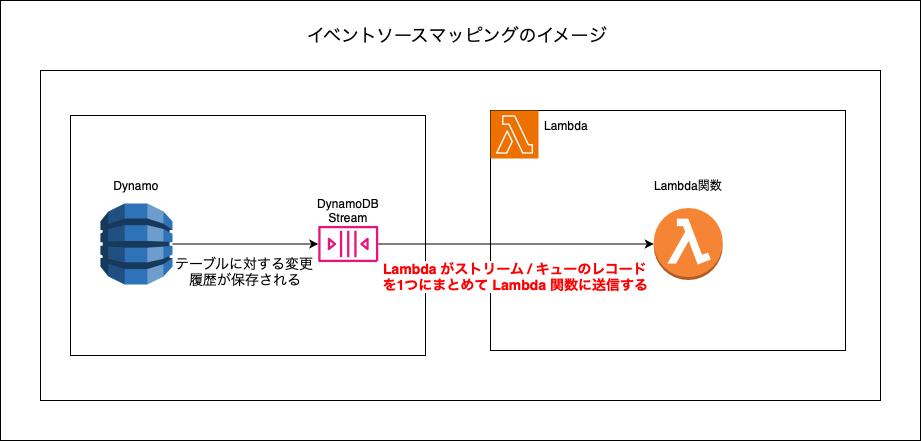
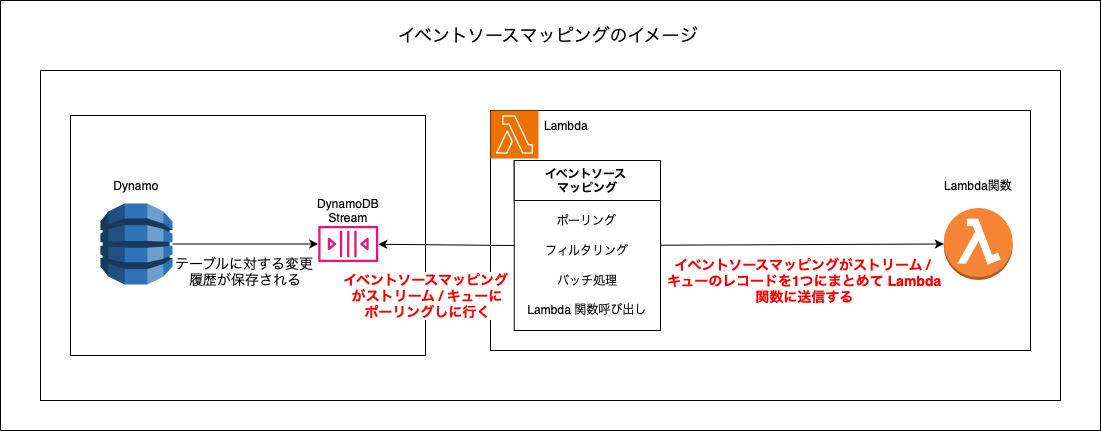
Add note about event source mapping and destinations of Lambda

Changed region(s): [[0.0304, 0.1508, 0.9729, 0.935], [0.3344, 0.0603, 0.6688, 0.1206], [0.3648, 0.7842, 0.3952, 0.8144]]

diff --git a/Lambda_2.md b/Lambda_2.md
@@ -65,7 +65,7 @@ Lambda 関数の呼び出し方として以下の3つの方法がある
 
         - イベントソースマッピングは、Lambda が関数に送信する単一のペイロードにレコードをまとめてバッチ処理する
 
-        - イベントソースマッピングでのバッチ処理のタイミングについて少しはカスタマイズできる (詳しくは[こちら](#バッチ処理のカスタマイズ)を参照)
+        - イベントソースマッピングでのバッチ処理の挙動について少しはカスタマイズできる (詳しくは[こちら](#バッチ処理のカスタマイズ)を参照)
 
 <br>
 
@@ -108,6 +108,11 @@ Lambda 関数の呼び出し方として以下の3つの方法がある
 
 参考サイト
 
+呼び出し方の種類について
+- [[AWS]知っておいたほうがいいLambda関数の呼び出しタイプとリトライ方式まとめ](https://dev.classmethod.jp/articles/lambda-idempotency/)
+
+- [Understanding the Different Ways to Invoke Lambda Functions](https://aws.amazon.com/jp/blogs/architecture/understanding-the-different-ways-to-invoke-lambda-functions/)
+
 同期実行時のエラーハンドリングについて
 - [Lambdaの例外エラーの通知方法を考える](https://blog.nightonly.com/2022/05/28/lambdaの例外エラーの通知方法を考える/)
 - [【Terraformハンズオン】同期呼び出しのLambda関数をデプロイしてみよう](https://envader.plus/article/466#Lambdaにおける同期呼び出しと非同期呼び出し)
@@ -117,48 +122,74 @@ Lambda 関数の呼び出し方として以下の3つの方法がある
 
 ---
 
-### バッチ処理のタイミングのカスタマイズ
+### バッチ処理の挙動のカスタマイズ
 
-- イベントソースマッピングの Lambda 関数の**処理開始のタイミング**は以下の3つの設定によってカスタマイズできる
+- イベントソースマッピングの Lambda 関数の**処理開始の条件**は以下の3つの設定によってカスタマイズできる
 
-- 以下の3つのうちどれか1つでも当てはまれば Lambda 関数が開始される
+<br>
 
 #### 1. バッチウィンドウ (MaximumBatchingWindowInSeconds)
 
-- ストリーム / キュー にレコードが追加されてから Lambda 関数が実行するまでの**待ち時間**
+<img src="./img/Lambda-Event-Source-Mapping-Batching-Window_1.png" />
+
+<br>
+
+- ストリーム / キュー にレコードが追加されているのを見つけてから Lambda 関数を呼び出すまでの**待ち時間**
 
     ```
     例: バッチウィンドウに0を設定した場合
 
-    → ストリーム / キューにレコードが追加されると、すぐにイベントソースマッピングの Lambda 関数を実行する
+    → ストリーム / キューのレコードが発見されると、すぐにイベントソースマッピングが Lambda 関数を実行する
 
 
     例: バッチウィンドウに5秒を設定した場合
 
-    → ストリーム / キューにレコードが追加されてから5秒後にイベントソースマッピングの Lambda 関数を実行する
+    → ストリーム / キューのレコードが発見されてから5秒後にイベントソースマッピングが Lambda 関数を実行する
     ```
-
 
 <br>    
 
 #### 2. バッチサイズ (BatchSize)
 
+<img src="./img/Lambda-Event-Source-Mapping-Batch-Size_1.png" />
+
+<br>
+
 - ストリーム / キュー に追加されるレコードの数
 
-    - ★バッチサイズに指定した数のレコードが ストリーム / キューに貯まった場合、 イベントーソースマッピングの Lambda 関数が実行される
+    - ★バッチサイズに指定した数のレコードが ストリーム / キューに貯まった場合、 イベントーソースマッピングが Lambda 関数を呼び出す
 
 <br>
 
 #### 3. ペイロードサイズ上限
 
+<img src="./img/Lambda-Event-Source-Payload_1.png" />
+
+<br>
+
 - ここでのペイロードの意味
 
     - ストリーム / キューのレコードを1つにまとめたサイズ = イベントソースマッピングの Lambda 関数に送られるデータのサイズのようなもの
 
-- ペイロードサイズが 6MB に達すると　イベントソースマッピングの Lambda 関数が実行される
+- ペイロードサイズが 6MB に達すると　イベントソースマッピングのが Lambda 関数を呼び出す
 
 - ペイロードサイズの上限は変更できない
 
+<br>
+
+#### 注意点
+
+- バッチウィンドウ、バッチサイズ、ペイロードサイズ上限の3つのうちどれか1つでも当てはまれば Lambda 関数が呼び出される
+
+    ```
+    例: バッチウィンドウを10秒、バッチサイズを3に設定した場合
+
+    1. レコードが3つ貯まらなくても、レコード発見から 10 秒経過すると Lambda 関数を呼び出す → バッチウィンドウの条件に当てはまるから
+
+    2. レコード発見から 10 秒経過するよりも早くレコードが3つ貯まったら Lambda 関数を呼び出す → バッチサイズの条件に当てはまるから
+
+    3. もし、1レコードのペイロードサイズが 3MB の場合で 10秒以内に2レコード貯まったら、 10 秒経過するよりも早く かつ 3レコード貯まるのを待たず Lambda 関数を呼び出す → ペイロードのサイズ上限の条件に当てはまるから
+    ```
 
 <br>
 <br>
@@ -167,20 +198,47 @@ Lambda 関数の呼び出し方として以下の3つの方法がある
 
 [Lambda がストリームおよびキューベースのイベントソースからのレコードを処理する方法](https://docs.aws.amazon.com/ja_jp/lambda/latest/dg/invocation-eventsourcemapping.html)
 
+[[レポート] AWS Lambda and Apache Kafka for real-time data processing applications #SVS321](https://dev.classmethod.jp/articles/session-report-for-aws-lambda-and-apache-kafka-for-realtime/)
+
 ---
 
 ### Destinations (送信先)
 
-- **非同期実行される** Lambda 関数の結果によって実行される後続処理を指定する機能
+<img src="./img/Lambda-Destinations_1.png" />
 
-    - 同期実行の Lambda 関数にて Destinations の指定はできないことに注意
+引用: [Introducing AWS Lambda Destinations](https://aws.amazon.com/jp/blogs/compute/introducing-aws-lambda-destinations/)
+
+<br>
+
+- **非同期実行される** Lambda 関数の結果によって実行される後続処理を行うサービスを指定する機能
+
+    - 同期実行の Lambda 関数では Destinations の指定はできないことに注意
 
 <br>
 
 - 現在(2024/12/5)のところ Destinations に指定できるサービスは以下の通り [by公式](https://docs.aws.amazon.com/ja_jp/lambda/latest/dg/invocation-async-retain-records.html)
 
     - SQS
-        - 標準キューのみ指定可能
     - SNS
     - Lambda
     - EventBridge
+    - S3
+
+<br>
+
+- Lambda 関数の成功時と失敗時にそれぞれ異なる後続処理のサービスを指定できる
+
+<br>
+
+- Destinations の指定はマネジメントコンソールの他に CLI, SAM, CloudFormation から指定可能
+
+<br>
+<br>
+
+参考サイト
+
+[【Serverless Framework】Lambda Destinations機能をServerless Frameworkで実装する](https://makky12.hatenablog.com/entry/2020/04/18/191831)
+
+[【アップデート】非同期Lambda失敗時の送信先にS3が指定できるようになりました](https://dev.classmethod.jp/articles/lambda-destination-support-s3/)
+
+[Introducing AWS Lambda Destinations](https://aws.amazon.com/jp/blogs/compute/introducing-aws-lambda-destinations/)
